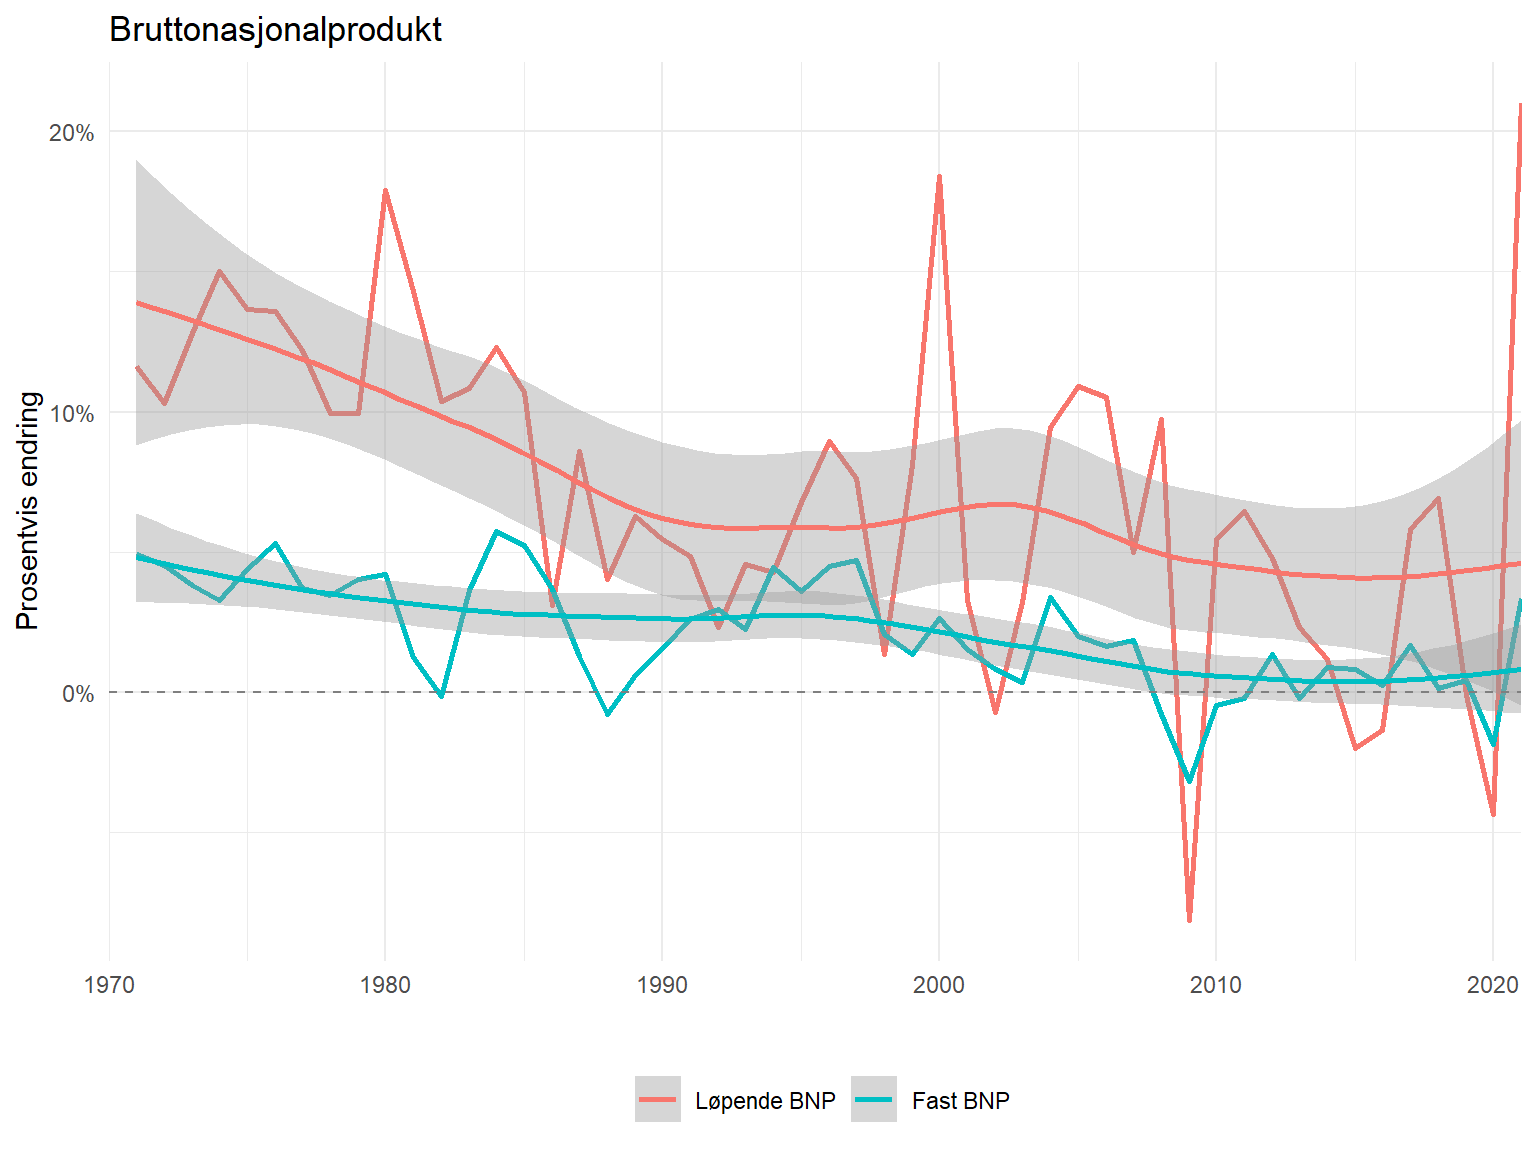
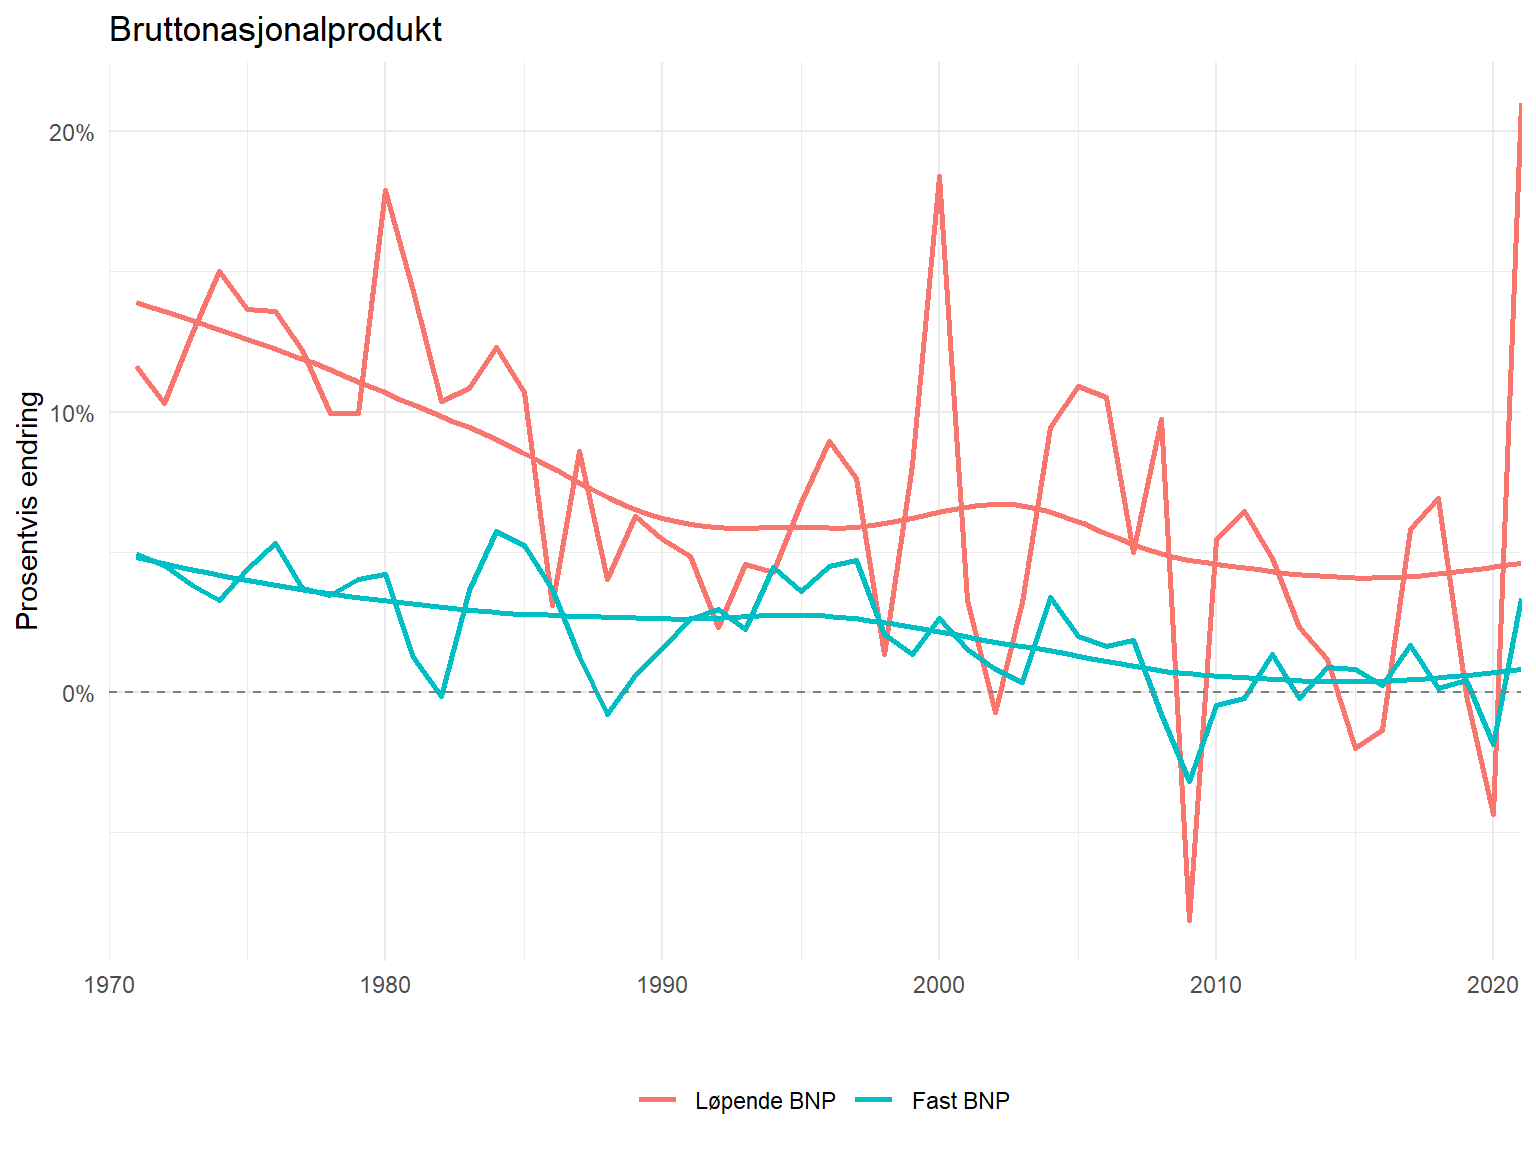
endring

Changed region(s): [[0.0625, 0.1562, 1.0, 0.625], [0.5312, 0.9375, 0.5938, 1.0], [0.4062, 0.9375, 0.4688, 1.0]]

diff --git a/Cases/Case_1_reworked.html b/Cases/Case_1_reworked.html
@@ -99,7 +99,7 @@ code span.wa { color: #60a0b0; font-weight: bold; font-style: italic; } /* Warni
 <link href="Case_1_reworked_files/libs/bootstrap/bootstrap.min.css" rel="stylesheet" id="quarto-bootstrap" data-mode="light">
 <style>
     .quarto-title-block .quarto-title-banner {
-      background: darkblueslate;
+      background: darkslateblue;
     }
     </style>
 
@@ -156,6 +156,7 @@ code span.wa { color: #60a0b0; font-weight: bold; font-style: italic; } /* Warni
 
 
 
+<p>For å gå tilbake til hovedsiden trykker du <a href="https://danielfabiog.github.io/SOK-1004/">her</a>.</p>
 <p>Denne oppgaven er tilpasset fra <a href="https://uit-sok-1004-h21.github.io/case_1_bnp.html">Case 1</a>, skrevet av Øystein Myrland for kurset SOK-1004, høsten 2021. Eventuelle feil og mangler er mine egne. Rett spørsmål og kommentarer til <a href="mailto:even.c.hvinden@uit.no">even.c.hvinden@uit.no</a>.</p>
 <section id="instruksjoner" class="level2">
 <h2 class="anchored" data-anchor-id="instruksjoner">Instruksjoner</h2>
@@ -447,7 +448,7 @@ $dataset
 <div class="sourceCode cell-code" id="cb13"><pre class="sourceCode r code-with-copy"><code class="sourceCode r"><span id="cb13-1"><a href="#cb13-1" aria-hidden="true" tabindex="-1"></a>df_long <span class="sc">%&gt;%</span></span>
 <span id="cb13-2"><a href="#cb13-2" aria-hidden="true" tabindex="-1"></a>  <span class="fu">ggplot</span>(<span class="fu">aes</span>(<span class="at">x =</span> tid, <span class="at">y =</span> bnp, <span class="at">color =</span> var)) <span class="sc">+</span></span>
 <span id="cb13-3"><a href="#cb13-3" aria-hidden="true" tabindex="-1"></a>  <span class="fu">geom_line</span>(<span class="at">linewidth =</span> <span class="dv">1</span>) <span class="sc">+</span></span>
-<span id="cb13-4"><a href="#cb13-4" aria-hidden="true" tabindex="-1"></a>  <span class="fu">geom_smooth</span>()<span class="sc">+</span></span>
+<span id="cb13-4"><a href="#cb13-4" aria-hidden="true" tabindex="-1"></a>  <span class="fu">geom_smooth</span>(<span class="at">se =</span> <span class="cn">FALSE</span>)<span class="sc">+</span></span>
 <span id="cb13-5"><a href="#cb13-5" aria-hidden="true" tabindex="-1"></a>  <span class="fu">scale_x_continuous</span>(<span class="at">limits =</span> <span class="fu">c</span>(<span class="dv">1970</span>, <span class="dv">2021</span>), <span class="at">expand =</span> <span class="fu">c</span>(<span class="dv">0</span>, <span class="dv">0</span>))<span class="sc">+</span></span>
 <span id="cb13-6"><a href="#cb13-6" aria-hidden="true" tabindex="-1"></a>  <span class="fu">scale_y_continuous</span>(<span class="at">labels =</span> scales<span class="sc">::</span><span class="fu">percent_format</span>(<span class="at">scale =</span> <span class="dv">1</span>))<span class="sc">+</span></span>
 <span id="cb13-7"><a href="#cb13-7" aria-hidden="true" tabindex="-1"></a>  <span class="fu">theme_minimal</span>()<span class="sc">+</span></span>
@@ -465,7 +466,7 @@ $dataset
 <p><img src="Case_1_reworked_files/figure-html/unnamed-chunk-12-1.png" class="img-fluid" width="768"></p>
 </div>
 </div>
-<p>Merknad fra meg selv: Geom_smooth ser ikke bra ut på figuren men inkluderer det fordi Even ville ha det med.</p>
+<p>For å gå tilbake til hovedsiden trykker du <a href="https://danielfabiog.github.io/SOK-1004/">her</a>.</p>
 </section>
 
 </main>

diff --git a/Cases/Case_2_reworked.html b/Cases/Case_2_reworked.html
@@ -99,7 +99,7 @@ code span.wa { color: #60a0b0; font-weight: bold; font-style: italic; } /* Warni
 <link href="Case_2_reworked_files/libs/bootstrap/bootstrap.min.css" rel="stylesheet" id="quarto-bootstrap" data-mode="light">
 <style>
     .quarto-title-block .quarto-title-banner {
-      background: darkblueslate;
+      background: darkslateblue;
     }
     </style>
 
